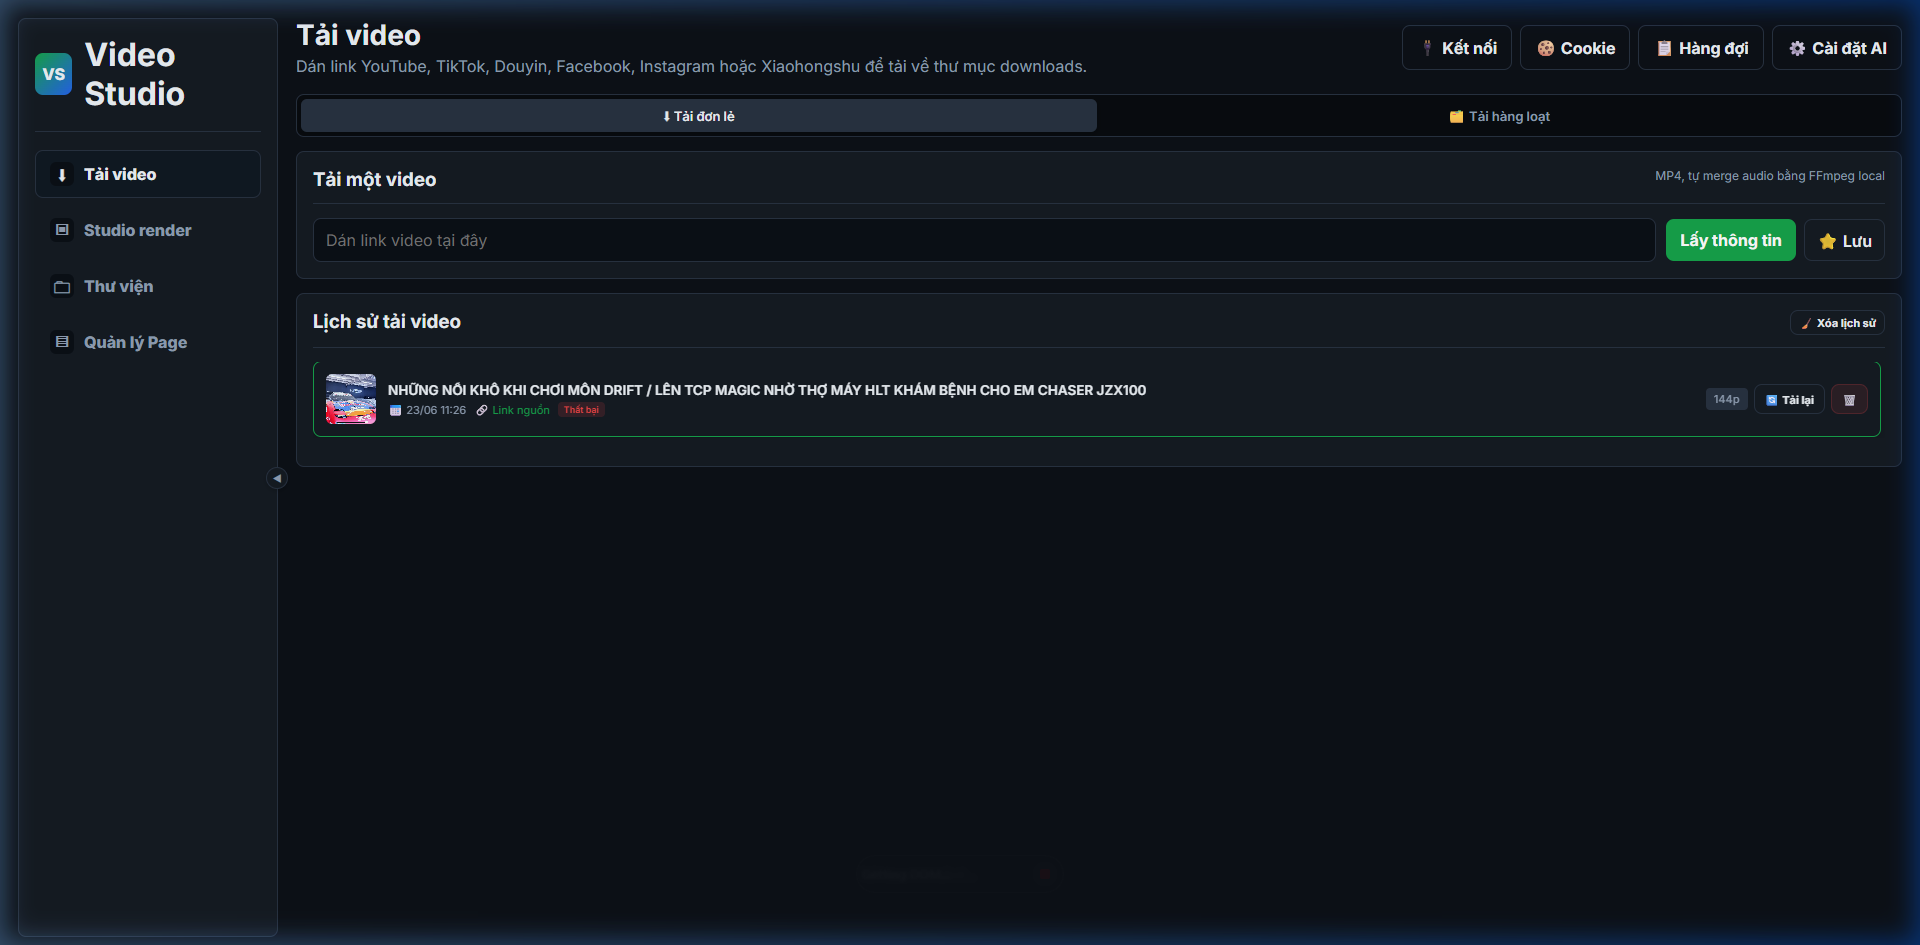
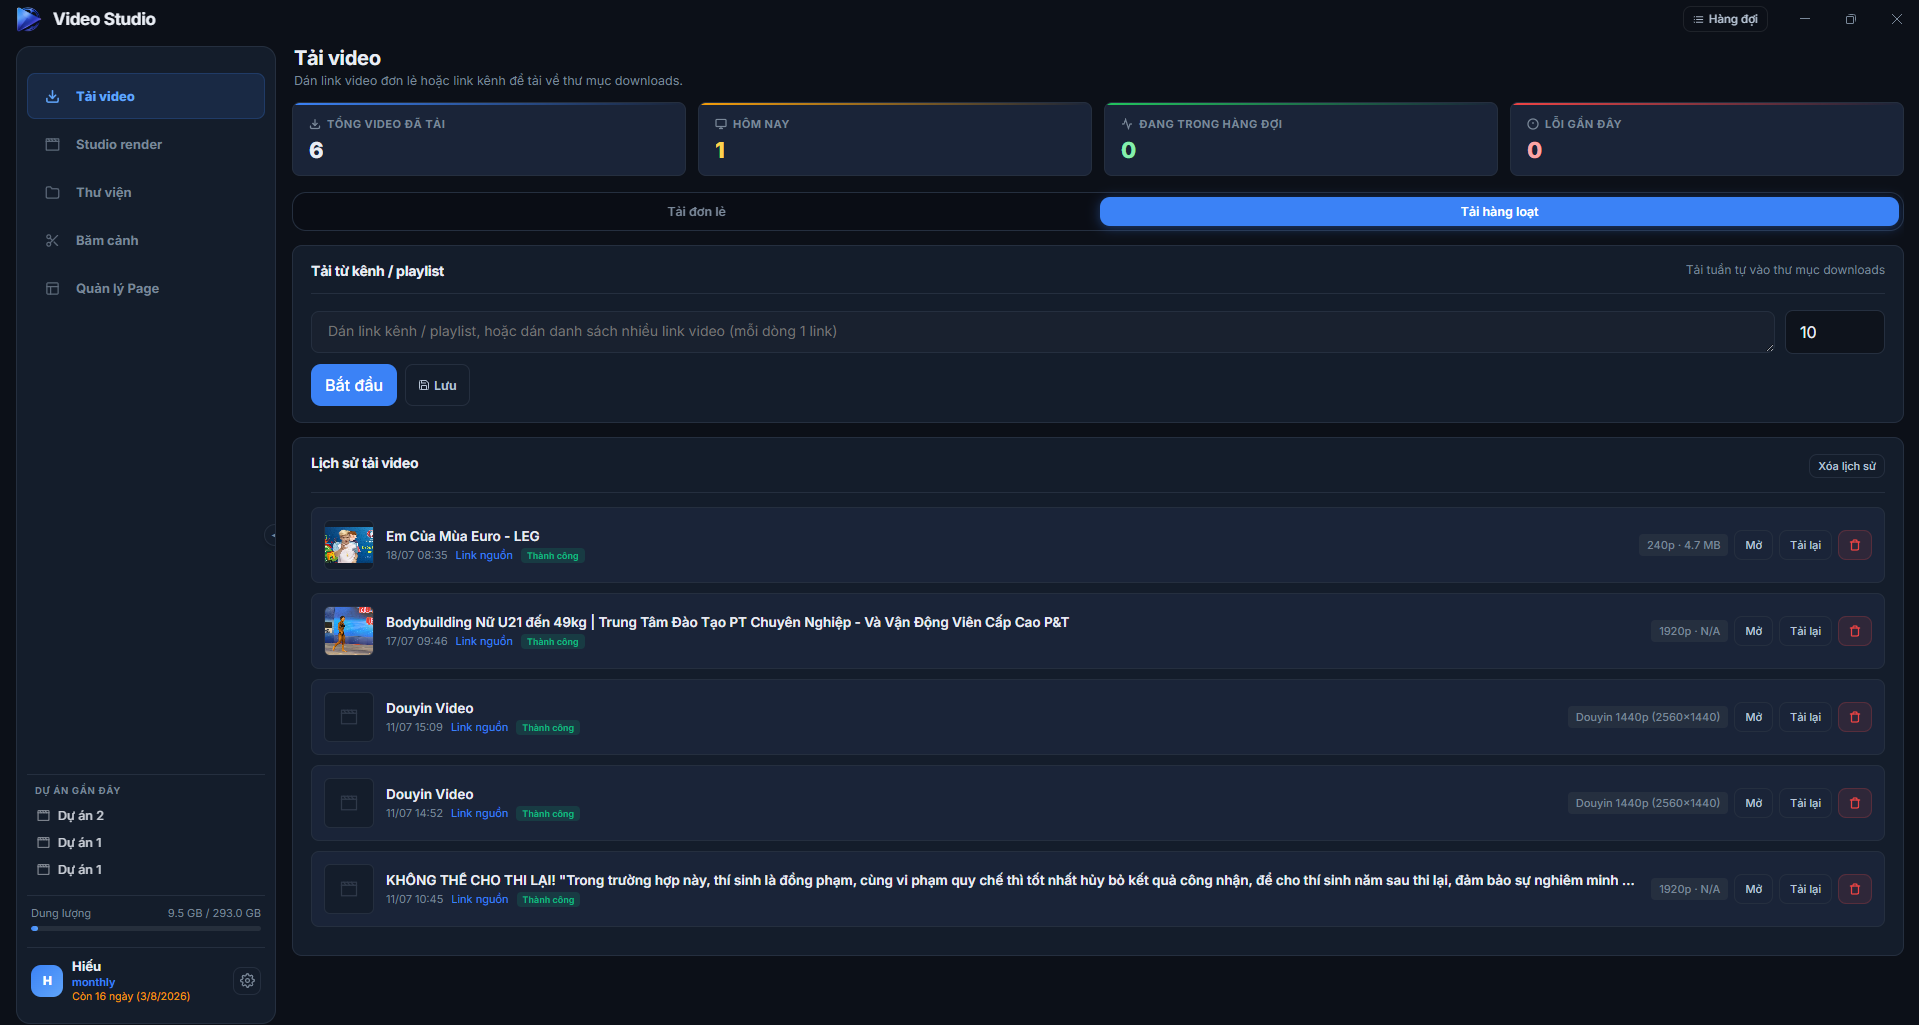
fix landing

diff --git a/license-server/frontend/src/pages/Home.jsx b/license-server/frontend/src/pages/Home.jsx
@@ -1,11 +1,12 @@
 import React, { useState, useEffect } from 'react';
 import { Link } from 'react-router-dom';
-import { Youtube, Video, Download, Languages, Volume2, Cpu, Layers, Settings, Tv, Flame, ShieldCheck, Check, X, Zap, Sparkles, Share2, Music, HardDrive } from 'lucide-react';
+import { Youtube, Video, Download, Languages, Volume2, Cpu, Layers, Settings, Tv, Flame, ShieldCheck, Check, X, Zap, Sparkles, Share2, Music, HardDrive, Scissors, Mic2, Facebook } from 'lucide-react';
 
 import downloaderImg from '../assets/downloader_screenshot.png';
 import studioImg from '../assets/studio_render_screenshot.png';
-import subtitlesImg from '../assets/subtitles_screenshot.png';
-import voiceoverImg from '../assets/voiceover_screenshot.png';
+import bamcanhImg from '../assets/bamcanh_screenshot.png';
+import libraryImg from '../assets/library_screenshot.png';
+import managepageImg from '../assets/managepage_screenshot.png';
 
 export default function Home({ currentUser, isDevMode, onOpenAuth, onSubscribePlan, showToast, appVersion }) {
   const [plans, setPlans] = useState([]);
@@ -98,8 +99,8 @@ export default function Home({ currentUser, isDevMode, onOpenAuth, onSubscribePl
       <section className="mx-auto max-w-7xl px-4 sm:px-6 lg:px-8">
         <div className="text-center max-w-3xl mx-auto mb-16 space-y-4">
           <span className="text-xs font-bold text-indigo-400 uppercase tracking-widest">Hệ Sinh Thái Editnhanh</span>
-          <h2 className="text-3xl sm:text-4xl font-bold font-display text-white">4 Phân Hệ Công Cụ Chuyên Nghiệp</h2>
-          <p className="text-zinc-400">Tích hợp đầy đủ các giải pháp tải, dịch thuật, lồng tiếng và render video thông minh trên máy tính.</p>
+          <h2 className="text-3xl sm:text-4xl font-bold font-display text-white">5 Phân Hệ Công Cụ Chuyên Nghiệp</h2>
+          <p className="text-zinc-400">Tích hợp đầy đủ các giải pháp tải video, biên tập, băm cảnh, quản lý giọng & nhạc nền và đăng video lên Facebook — tất cả trên máy tính.</p>
         </div>
 
         <div className="space-y-24">
@@ -152,11 +153,11 @@ export default function Home({ currentUser, isDevMode, onOpenAuth, onSubscribePl
                 </div>
                 <div>
                   <h3 className="text-2xl font-bold text-white font-display">Studio Biên Tập Render</h3>
-                  <p className="text-xs text-zinc-500 font-semibold">Quản lý dự án phi tuyến tính trực quan</p>
+                  <p className="text-xs text-zinc-500 font-semibold">Biên tập, phụ đề dịch thuật & lồng tiếng AI trong một nơi</p>
                 </div>
               </div>
               <p className="text-sm text-zinc-400 leading-relaxed">
-                Giao diện làm việc chuyên nghiệp, giúp bạn quản lý từng dự án biên tập riêng biệt. Cho phép cắt ghép video, đồng bộ âm thanh và kết xuất tốc độ cao.
+                Giao diện làm việc chuyên nghiệp, quản lý từng dự án biên tập riêng biệt. Tích hợp nhận diện giọng nói, dịch phụ đề tự động và lồng tiếng AI offline — kết xuất tốc độ cao chỉ trong vài click.
               </p>
               <div className="grid grid-cols-2 gap-3 text-xs text-zinc-350 bg-zinc-950/40 p-4 rounded-xl border border-zinc-900/60 font-medium">
                 <div className="flex items-center gap-2">
@@ -165,15 +166,15 @@ export default function Home({ currentUser, isDevMode, onOpenAuth, onSubscribePl
                 </div>
                 <div className="flex items-center gap-2">
                   <span className="h-1.5 w-1.5 rounded-full bg-purple-400"></span>
-                  <span>Tùy chỉnh khung hình dọc/ngang</span>
+                  <span>Phụ đề tự động & dịch thuật AI</span>
                 </div>
                 <div className="flex items-center gap-2">
                   <span className="h-1.5 w-1.5 rounded-full bg-purple-400"></span>
-                  <span>Chèn hình mờ (Watermark/Overlay)</span>
+                  <span>Lồng tiếng AI offline biểu cảm</span>
                 </div>
                 <div className="flex items-center gap-2">
                   <span className="h-1.5 w-1.5 rounded-full bg-purple-400"></span>
-                  <span>Ghép nhạc nền</span>
+                  <span>Render tốc độ cao, watermark</span>
                 </div>
               </div>
             </div>
@@ -182,81 +183,120 @@ export default function Home({ currentUser, isDevMode, onOpenAuth, onSubscribePl
             </div>
           </div>
 
-          {/* Subtitles Section */}
+          {/* Băm cảnh Section */}
           <div className="flex flex-col lg:flex-row items-center gap-12">
             <div className="flex-1 space-y-6">
               <div className="flex items-center gap-4">
-                <div className="h-12 w-12 rounded-2xl bg-pink-500/10 text-pink-400 flex items-center justify-center">
-                  <Languages className="h-6 w-6" />
+                <div className="h-12 w-12 rounded-2xl bg-orange-500/10 text-orange-400 flex items-center justify-center">
+                  <Scissors className="h-6 w-6" />
                 </div>
                 <div>
-                  <h3 className="text-2xl font-bold text-white font-display">Phụ Đề & Dịch Thuật</h3>
-                  <p className="text-xs text-zinc-500 font-semibold">Tự động nhận diện giọng nói chuẩn 99%</p>
+                  <h3 className="text-2xl font-bold text-white font-display">Băm Cảnh Tự Động</h3>
+                  <p className="text-xs text-zinc-500 font-semibold">Cắt video đài thành các ngắn cảnh Reels/Shorts</p>
                 </div>
               </div>
               <p className="text-sm text-zinc-400 leading-relaxed">
-                Trích xuất phụ đề tự động từ âm thanh video. Tự động dịch nghĩa phụ đề sang các ngôn ngữ khác nhau phục vụ Reup quốc tế.
+                Tự động phân tích và cắt video dài thành hàng loạt clip ngắn theo cảnh. Tùy chỉnh số bản, độ nhạy cắt cảnh và tỉ lệ khung hình đầu ra — lý tưởng để sản xuất hàng loạt Reels & Shorts.
               </p>
               <div className="grid grid-cols-2 gap-3 text-xs text-zinc-350 bg-zinc-950/40 p-4 rounded-xl border border-zinc-900/60 font-medium">
                 <div className="flex items-center gap-2">
-                  <span className="h-1.5 w-1.5 rounded-full bg-pink-400"></span>
-                  <span>Nhận diện giọng nói</span>
+                  <span className="h-1.5 w-1.5 rounded-full bg-orange-400"></span>
+                  <span>Băm tự động theo cảnh AI</span>
                 </div>
                 <div className="flex items-center gap-2">
-                  <span className="h-1.5 w-1.5 rounded-full bg-pink-400"></span>
-                  <span>Xuất tệp phụ đề</span>
+                  <span className="h-1.5 w-1.5 rounded-full bg-orange-400"></span>
+                  <span>Tùy chỉnh số bản chia đều</span>
                 </div>
                 <div className="flex items-center gap-2">
-                  <span className="h-1.5 w-1.5 rounded-full bg-pink-400"></span>
-                  <span>Dịch phụ đề sang Tiếng Việt</span>
+                  <span className="h-1.5 w-1.5 rounded-full bg-orange-400"></span>
+                  <span>Xuất 9:16 Reels/Shorts tự động</span>
                 </div>
                 <div className="flex items-center gap-2">
-                  <span className="h-1.5 w-1.5 rounded-full bg-pink-400"></span>
-                  <span>Trình chỉnh sửa dòng chữ trực quan</span>
+                  <span className="h-1.5 w-1.5 rounded-full bg-orange-400"></span>
+                  <span>Điều chỉnh độ nhạy cắt cảnh</span>
                 </div>
               </div>
             </div>
             <div className="flex-1 w-full">
-              <img src={subtitlesImg} alt="Subtitles & Translation screen" className="w-full h-auto rounded-2xl border border-zinc-800 shadow-2xl hover:border-zinc-700 transition-all duration-300" />
+              <img src={bamcanhImg} alt="Băm cảnh tự động" className="w-full h-auto rounded-2xl border border-zinc-800 shadow-2xl hover:border-zinc-700 transition-all duration-300" />
             </div>
           </div>
 
-          {/* Voiceover Section */}
+          {/* Thư viện giọng & nhạc nền Section */}
           <div className="flex flex-col lg:flex-row-reverse items-center gap-12">
             <div className="flex-1 space-y-6">
               <div className="flex items-center gap-4">
-                <div className="h-12 w-12 rounded-2xl bg-emerald-500/10 text-emerald-400 flex items-center justify-center">
-                  <Volume2 className="h-6 w-6" />
+                <div className="h-12 w-12 rounded-2xl bg-cyan-500/10 text-cyan-400 flex items-center justify-center">
+                  <Mic2 className="h-6 w-6" />
                 </div>
                 <div>
-                  <h3 className="text-2xl font-bold text-white font-display">Lồng Tiếng AI Biểu Cảm</h3>
-                  <p className="text-xs text-zinc-500 font-semibold">Chuyển văn bản thành giọng nói tự nhiên</p>
+                  <h3 className="text-2xl font-bold text-white font-display">Quản Lý Giọng & Nhạc Nền</h3>
+                  <p className="text-xs text-zinc-500 font-semibold">Clone & quản lý kho tài nguyên âm thanh cá nhân</p>
                 </div>
               </div>
               <p className="text-sm text-zinc-400 leading-relaxed">
-                Tích hợp động cơ lồng tiếng offline chất lượng cao. Đa dạng giọng đọc nam/nữ nhiều vùng miền, tự động căn khớp thời gian nói theo tốc độ video nguồn.
+                Thư viện tập trung để quản lý toàn bộ giọng đọc AI và nhạc nền. Hỗ trợ clone giọng nói của bản thân hoặc bất kỳ ai chỉ với file ghi âm ngắn, tạo ra giọng đọc AI hoàn toàn riêng tư.
               </p>
               <div className="grid grid-cols-2 gap-3 text-xs text-zinc-350 bg-zinc-950/40 p-4 rounded-xl border border-zinc-900/60 font-medium">
                 <div className="flex items-center gap-2">
-                  <span className="h-1.5 w-1.5 rounded-full bg-emerald-400"></span>
-                  <span>Động cơ lồng tiếng offline 100%</span>
+                  <span className="h-1.5 w-1.5 rounded-full bg-cyan-400"></span>
+                  <span>Clone giọng nói bằng Omni Cloner</span>
                 </div>
                 <div className="flex items-center gap-2">
-                  <span className="h-1.5 w-1.5 rounded-full bg-emerald-400"></span>
-                  <span>Tùy chỉnh tốc độ và âm lượng</span>
+                  <span className="h-1.5 w-1.5 rounded-full bg-cyan-400"></span>
+                  <span>Thư viện nhạc nền tùy chỉnh</span>
                 </div>
                 <div className="flex items-center gap-2">
-                  <span className="h-1.5 w-1.5 rounded-full bg-emerald-400"></span>
-                  <span>Giọng đọc truyền cảm, ấm áp</span>
+                  <span className="h-1.5 w-1.5 rounded-full bg-cyan-400"></span>
+                  <span>Giọng đọc AI offline cá nhân hóa</span>
                 </div>
                 <div className="flex items-center gap-2">
-                  <span className="h-1.5 w-1.5 rounded-full bg-emerald-400"></span>
-                  <span>Tự động chèn khớp mốc thời gian</span>
+                  <span className="h-1.5 w-1.5 rounded-full bg-cyan-400"></span>
+                  <span>Quản lý & tái sử dụng dễ dàng</span>
                 </div>
               </div>
             </div>
             <div className="flex-1 w-full">
-              <img src={voiceoverImg} alt="AI Voiceover Screen" className="w-full h-auto rounded-2xl border border-zinc-800 shadow-2xl hover:border-zinc-700 transition-all duration-300" />
+              <img src={libraryImg} alt="Quản lý giọng và nhạc nền" className="w-full h-auto rounded-2xl border border-zinc-800 shadow-2xl hover:border-zinc-700 transition-all duration-300" />
+            </div>
+          </div>
+
+          {/* Quản lý Page Facebook Section */}
+          <div className="flex flex-col lg:flex-row items-center gap-12">
+            <div className="flex-1 space-y-6">
+              <div className="flex items-center gap-4">
+                <div className="h-12 w-12 rounded-2xl bg-blue-500/10 text-blue-400 flex items-center justify-center">
+                  <Facebook className="h-6 w-6" />
+                </div>
+                <div>
+                  <h3 className="text-2xl font-bold text-white font-display">Quản Lý Đăng Video Facebook</h3>
+                  <p className="text-xs text-zinc-500 font-semibold">Đăng hàng loạt video lên Page Facebook tự động</p>
+                </div>
+              </div>
+              <p className="text-sm text-zinc-400 leading-relaxed">
+                Quản lý danh sách tất cả các Facebook Fanpage của bạn tập trung tại một nơi. Lên lịch và đăng hàng loạt video lên nhiều Page cùng lúc — tối ưu hiệu suất vận hành kênh.
+              </p>
+              <div className="grid grid-cols-2 gap-3 text-xs text-zinc-350 bg-zinc-950/40 p-4 rounded-xl border border-zinc-900/60 font-medium">
+                <div className="flex items-center gap-2">
+                  <span className="h-1.5 w-1.5 rounded-full bg-blue-400"></span>
+                  <span>Quản lý nhiều Fanpage cùng lúc</span>
+                </div>
+                <div className="flex items-center gap-2">
+                  <span className="h-1.5 w-1.5 rounded-full bg-blue-400"></span>
+                  <span>Đăng video hàng loạt tự động</span>
+                </div>
+                <div className="flex items-center gap-2">
+                  <span className="h-1.5 w-1.5 rounded-full bg-blue-400"></span>
+                  <span>Thêm, sửa, xóa Page dễ dàng</span>
+                </div>
+                <div className="flex items-center gap-2">
+                  <span className="h-1.5 w-1.5 rounded-full bg-blue-400"></span>
+                  <span>Tìm kiếm & lọc Page nhanh chóng</span>
+                </div>
+              </div>
+            </div>
+            <div className="flex-1 w-full">
+              <img src={managepageImg} alt="Quản lý đăng video Facebook Page" className="w-full h-auto rounded-2xl border border-zinc-800 shadow-2xl hover:border-zinc-700 transition-all duration-300" />
             </div>
           </div>
 

diff --git a/license-server/frontend/src/App.jsx b/license-server/frontend/src/App.jsx
@@ -351,30 +351,7 @@ function AppContent() {
                 </ul>
               </div>
 
-              {/* Column 3: Proprietary Engines */}
-              <div className="space-y-4">
-                <h4 className="text-xs font-bold text-white uppercase tracking-wider font-display">Động cơ công nghệ</h4>
-                <ul className="space-y-2.5 text-xs text-zinc-400 font-medium">
-                  <li className="flex items-center gap-1.5">
-                    <span className="h-1.5 w-1.5 rounded-full bg-indigo-500"></span>
-                    <span>Smart-Voice AI (Nhận diện)</span>
-                  </li>
-                  <li className="flex items-center gap-1.5">
-                    <span className="h-1.5 w-1.5 rounded-full bg-indigo-500"></span>
-                    <span>VST-Speech AI (Lồng tiếng)</span>
-                  </li>
-                  <li className="flex items-center gap-1.5">
-                    <span className="h-1.5 w-1.5 rounded-full bg-indigo-500"></span>
-                    <span>VST-Core Fast Render (Biên tập)</span>
-                  </li>
-                  <li className="flex items-center gap-1.5">
-                    <span className="h-1.5 w-1.5 rounded-full bg-indigo-500"></span>
-                    <span>High-Speed Crawler (Tải video)</span>
-                  </li>
-                </ul>
-              </div>
-
-              {/* Column 4: Contact Support */}
+              {/* Column 3: Contact Support */}
               <div className="space-y-4">
                 <h4 className="text-xs font-bold text-white uppercase tracking-wider font-display">Hỗ trợ & Liên hệ</h4>
                 <ul className="space-y-3 text-xs text-zinc-400 font-medium">
